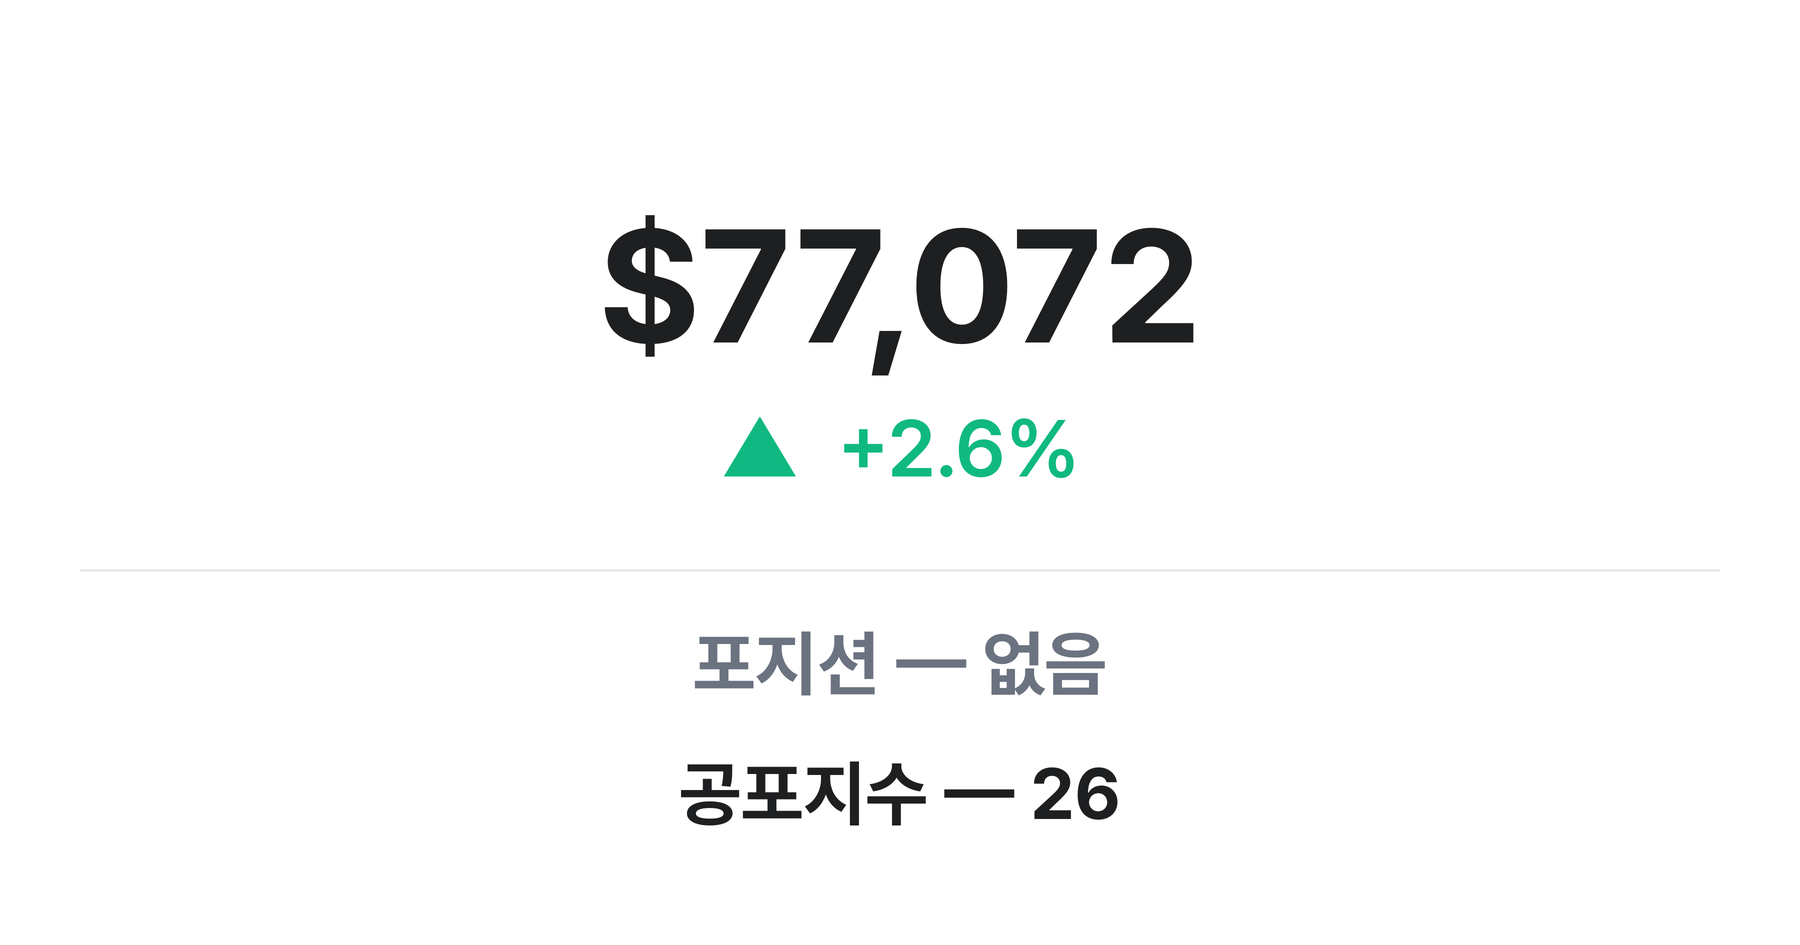
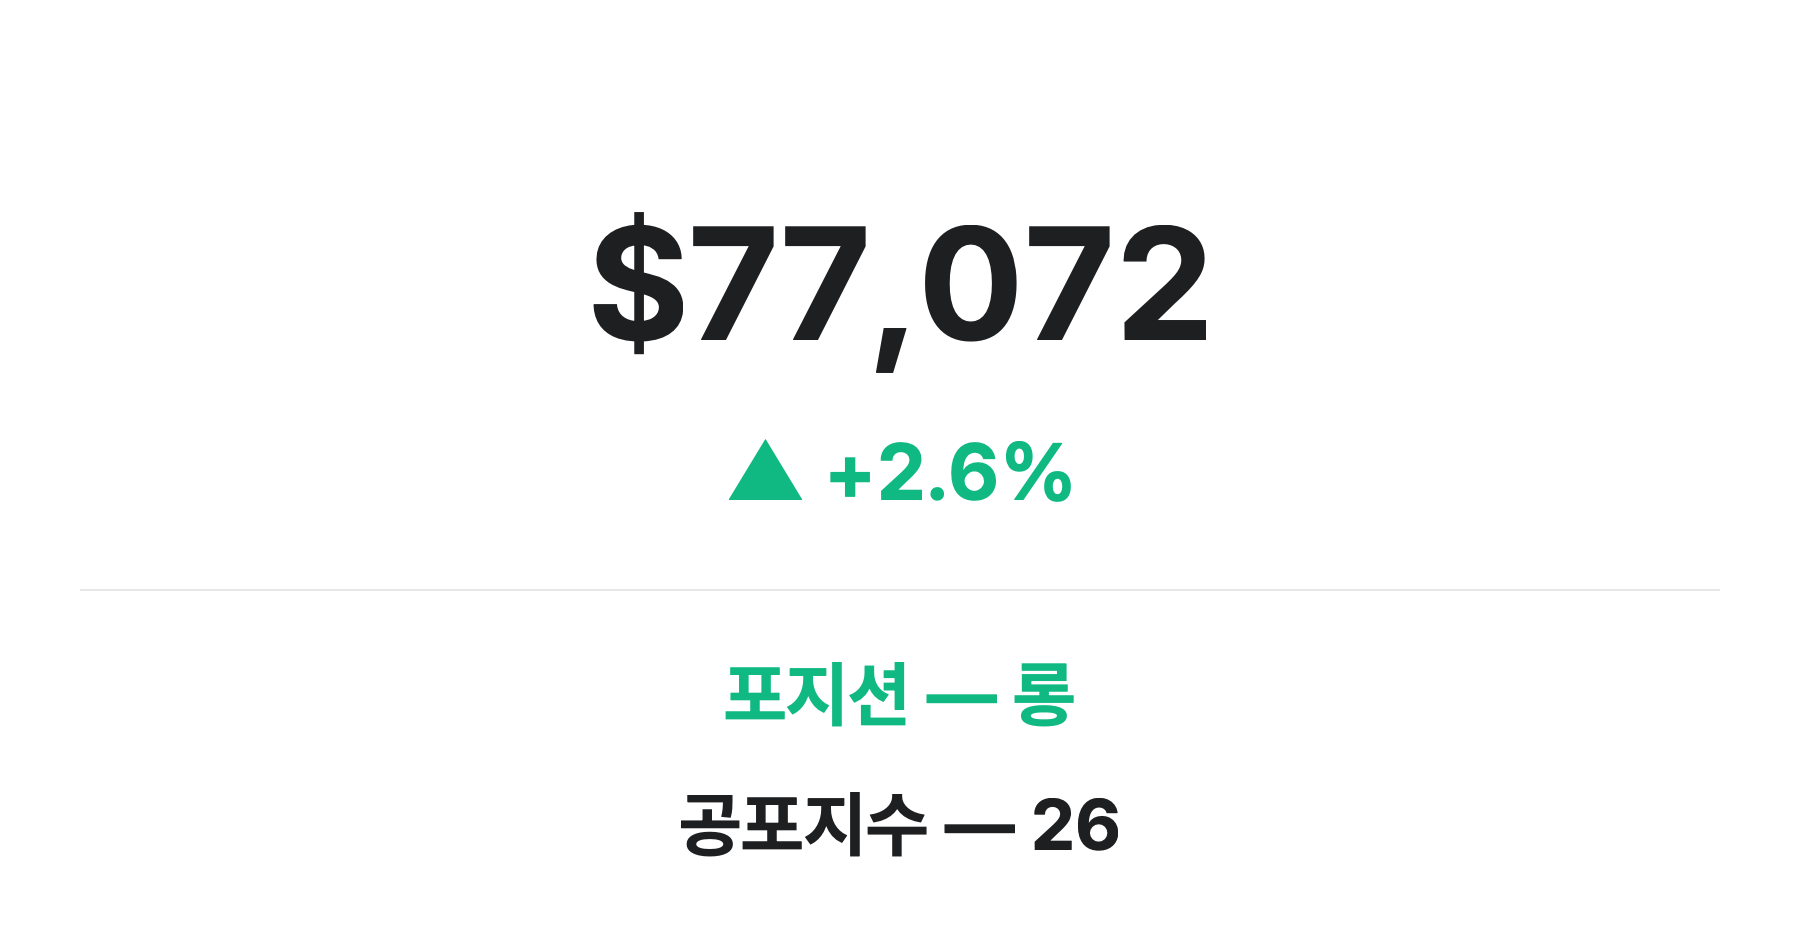
fix: 260418 데일리 레포트 — 관망 → 롱 매수 (펀딩레이트 캐시 오류 수정)

diff --git a/content/posts/260418-hormuz-reopen-wall-street-record-btc-77k.md b/content/posts/260418-hormuz-reopen-wall-street-record-btc-77k.md
@@ -1,14 +1,14 @@
 ---
 title: "[26/04/18] 데일리 레포트 — 호르무즈 재개방에 월가 사상최고, 비트코인 $77K 탈환"
 date: 2026-04-18
-tags: ["관망", "비트코인", "BTC", "시장분석", "자동매매", "데일리레포트", "바이낸스", "하락장", "호르무즈", "이란", "휴전", "유가급락", "나스닥", "펀딩레이트", "ETF"]
+tags: ["롱 매수", "비트코인", "BTC", "시장분석", "자동매매", "데일리레포트", "바이낸스", "하락장", "호르무즈", "이란", "휴전", "유가급락", "나스닥", "펀딩레이트", "ETF"]
 description: "이란이 호르무즈 해협의 전면 개방을 선언하며 유가가 10% 이상 급락했다. 다우 800포인트 급등, 나스닥 13연승으로 월가가 환호하는 가운데 비트코인은 $77K를 탈환했지만 파생상품 시장은 여전히 경계 모드다."
 author: "비트노마드"
 cover: "/images/posts/260418-dashboard.svg"
 draft: false
 ---
 
-> 포지션: **관망**
+> 포지션: **롱 매수**
 
 이란이 호르무즈 해협의 전면 개방을 선언하면서 글로벌 시장에 안도 랠리가 쏟아졌다. 다우가 800포인트 이상 급등하고 나스닥이 1992년 이후 최장인 13연승을 기록하는 등 월가는 축제 분위기였다. 비트코인 역시 $77,000을 탈환하며 전일 대비 2.6% 상승했지만, 파생상품 시장의 마이너스 펀딩레이트와 옵션 시장의 하방 헤지 수요는 이 반등이 지속 가능한 추세 전환인지에 대해 의문을 던지고 있다.
 
@@ -123,19 +123,19 @@ BTC 도미넌스는 여전히 높은 수준을 유지하고 있으며, 지정학
 
 ## 자동매매 현황
 
-시스템은 현재 **관망** 상태다. 직전 거래를 마무리한 뒤 새로운 포지션 진입 조건을 탐색하고 있다.
+시스템이 오늘 상승 방향에 베팅하며 $77,023.60에 롱 포지션을 진입했다.
 
-현재 시장은 하락장 레짐으로 분류되고 있지만, 호르무즈 재개방이라는 외생 변수가 시장 구조를 빠르게 바꾸고 있어 레짐 전환 가능성을 모니터링하는 단계다. 추세 지표는 아직 하방 신호를 유지하고 있으나 하락 모멘텀이 약화되고 있고, 모멘텀 지표는 중립 영역으로 복귀한 상태다.
+현재 시장은 하락장으로 분류되고 있지만, 중기 추세선이 뚜렷한 상승 기울기를 형성하면서 하락장 내 반전 신호가 확인되었다. 가격이 단기 이동평균 위로 복귀했고, 파생상품 시장의 극단적 숏 편향이 역발상 매수의 핵심 근거로 작용했다. 펀딩레이트가 2023년 이후 최저 수준까지 밀린 상태에서, 대다수가 하락에 베팅하고 있다는 것은 역사적으로 숏스퀴즈의 전조였다. 시장 과열도 역시 정상 범위에 머물러 있어 고점 매수 리스크 없이 진입이 가능했다.
 
 ### 유가 안정과 위험자산 회복 가속
 
-상승 방향으로의 진입이 가능해지려면 추세 지표가 하락에서 상승으로 전환되어야 하며, 모멘텀이 과매도 영역을 거쳐 반등 확인까지 나와야 한다. 호르무즈 해협의 지속적 개방과 유가 안정이 확인되면 위험자산 전반의 강세가 가속되며, $78,000 저항 돌파와 함께 추세 전환 신호가 포착될 수 있다. 다만 현재는 추세 전환이 아닌 반등 구간으로, 아직 상승 진입 조건이 완전히 갖춰지지 않았다.
+호르무즈 해협의 지속적 개방과 유가 안정이 확인되면 위험자산 전반의 강세가 가속될 수 있다. 극단적 숏 편향이 해소되지 않은 상태에서 추가 호재가 등장하면 대규모 숏스퀴즈와 함께 $78,000 저항선 돌파가 시도될 것이다. 시스템은 추세 지표의 강화를 확인하며 포지션을 유지할 것이다.
 
 ### 휴전 결렬과 봉쇄 재개 리스크
 
-하락 방향의 기회는 휴전 협상이 결렬되거나 이스라엘-레바논 휴전이 종료되면서 중동 리스크가 재점화될 때 열린다. 유가가 다시 $100을 향해 치솟고 시장 심리가 급격히 위축되면 $74,500 지지선 이탈과 함께 모멘텀이 다시 과매도 영역으로 진입할 수 있다. 이 경우 변동성 확대와 함께 하락 방향 진입 조건이 충족될 가능성이 있다.
+반대로 휴전 협상이 결렬되거나 이스라엘-레바논 휴전이 종료되면서 중동 리스크가 재점화될 경우, 유가가 다시 $100을 향해 치솟고 시장 심리가 급격히 위축될 수 있다. 이 경우 시스템은 추세 지표의 방향 전환을 감지하여 포지션을 조정할 것이다. 다만 호르무즈 재개방이라는 구조적 변화가 이미 발생한 상황에서, 완전한 원상 복귀 확률은 낮다는 것이 현재의 판단이다.
 
-현 시점에서는 어느 방향이든 확정적 신호가 부재하며, 호르무즈 해협의 실질적 개방 지속 여부가 시장 방향을 결정할 핵심 변수다. 시스템은 신호 확인 전까지 관망을 유지한다.
+현 시점에서 시스템은 하락장 내 반등 초기 국면으로 보고 있으며, $78,000 저항선 돌파 여부가 추세 전환을 확인하는 핵심 변수다.
 
 <div style="text-align:center; margin:24px 0;">
   <a href="/trades/binance/" style="display:inline-block; padding:12px 32px; background:#2d6a4f; color:#fff; border-radius:8px; text-decoration:none; font-weight:bold;">실매매 내역 보기 →</a>
